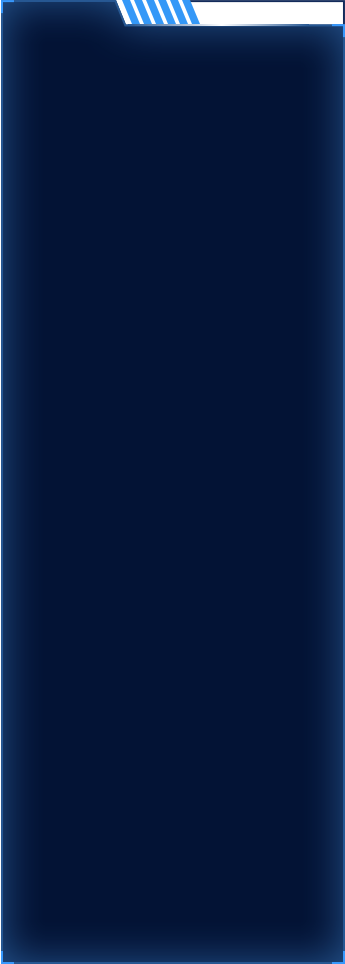
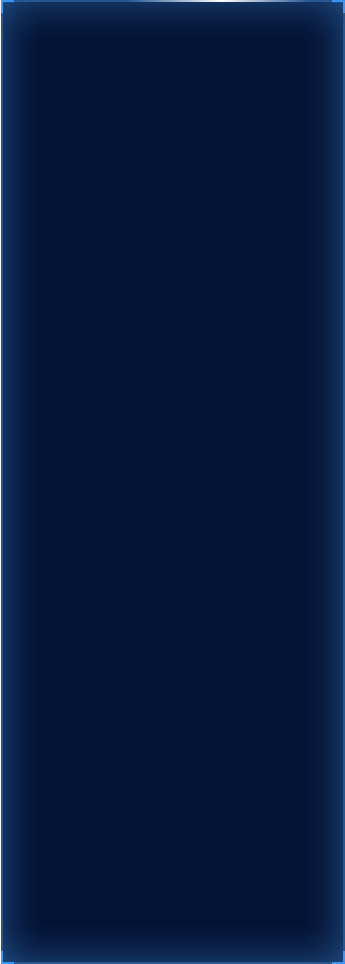
'模糊抓拍'

Changed region(s): [[0.3188, 0.0, 1.0, 0.0622]]

diff --git a/src/components/keyChannel/homeIndex.vue b/src/components/keyChannel/homeIndex.vue
@@ -5,8 +5,19 @@
       <el-container  ref="elAside">
         <el-aside>
           <div class="bg"><img src="../../assets/index/zuo.png" alt="" ></div>
-          <div class="stranger_title"><img src="../../assets/index/zuoxuanzhong.png" alt="">陌生人(未处理)</div>
-          <div class="stranger_list" v-if="strangerList.length != 0">
+          <div class="stranger_title">
+            <div :class="strangerTab == 1 ? 'active stranger_tab' : 'stranger_tab'" @click="strangerTabClick(1)">
+              <img src="../../assets/index/zuoxuanzhong.png" alt="" v-if="strangerTab == 1">
+              <img src="../../assets/index/zuoweixuan.png" alt="" v-else>
+              陌生人(未处理)
+            </div>
+            <div :class="strangerTab == 2 ? 'active stranger_tab' : 'stranger_tab'" @click="strangerTabClick(2)">
+              <img src="../../assets/index/zuoxuanzhong.png" alt="" v-if="strangerTab == 2">
+              <img src="../../assets/index/zuoweixuan.png" alt="" v-else>
+              模糊抓拍
+            </div>
+          </div>
+          <div class="stranger_list" v-if="strangerTab == 1">
             <div class="list" v-for="(item,index) in strangerList" :key="index">
               <div class="img">
                 <img :src="item.facial_pic" alt="" @click="bigImgShow(item.facial_pic)">
@@ -15,13 +26,30 @@
                 <p><span>时间：</span><span>{{datetimeparse(item.filming_time,'MM-DD hh:mm:ss')}}</span></p>
                 <p><span>地点：</span><span>{{item.location ? item.location : '-'}}</span></p>
                 <p><span>来源：</span><span>-</span></p>
-                <div class="handle" @click="handelBtn(item.illegal_guest_id)"><img src="../../assets/index/chuli.png" alt=""></div>
+                <div class="handle" @click="handelBtn(item.illegal_guest_id,1)"><img src="../../assets/index/chuli.png" alt=""></div>
               </div>
             </div>
+            <div class="noMsg" v-if="strangerList.length == 0">
+              <div class="img"><img src="../../assets/index/zanwuneirong.png" alt=""></div>
+              <p>暂无内容</p>
+            </div>
           </div>
-          <div class="noMsg" v-else>
-            <div class="img"><img src="../../assets/index/zanwuneirong.png" alt=""></div>
-            <p>暂无内容</p>
+          <div class="stranger_list" v-if="strangerTab == 2">
+            <div class="list" v-for="(item,index) in indistinctList" :key="index">
+              <div class="img">
+                <img :src="item.facial_pic" alt="" @click="bigImgShow(item.facial_pic)">
+              </div>
+              <div class="list_content">
+                <p><span>时间：</span><span>{{datetimeparse(item.filming_time,'MM-DD hh:mm:ss')}}</span></p>
+                <p><span>地点：</span><span>{{item.location ? item.location : '-'}}</span></p>
+                <p><span>来源：</span><span>-</span></p>
+                <div class="handle" @click="handelBtn(item.illegal_guest_id,2)"><img src="../../assets/index/chuli.png" alt=""></div>
+              </div>
+            </div>
+            <div class="noMsg" v-if="indistinctList.length == 0">
+              <div class="img"><img src="../../assets/index/zanwuneirong.png" alt=""></div>
+              <p>暂无内容</p>
+            </div>
           </div>
         </el-aside>
         <!-- 中间主页-->
@@ -453,6 +481,7 @@
         maskBtn:false,         // 控制大图
         bigImgSrc: '',         // 大图url
         strangerList: [],   // 陌生人待处理的列表
+        indistinctList: [], // 陌生人模糊抓拍列表
         strangerNum: 0,     // 陌生人待处理的数量
         tab1: true,
         tab2: false,
@@ -479,18 +508,13 @@
         aliveLists: [],        // 在住人列表
         visitorLists: [],        // 访客列表
         websock: null,
+        strangerTab: 1,      // 左边tab切换
       }
     },
     mounted () {
       this.getLists(0,'',0,18,'');
-      this.getLists(0,'SUSPICIOUS_GUEST',5,200,'SUSPICIOUS_GUEST');
+      this.getLists(0,'SUSPICIOUS_GUEST',5,500,'SUSPICIOUS_GUEST');
       this.initWebSocket();
-//      console.log(this.$refs.mainHeight.$el.offsetHeight);
-
-//      console.log(this.$refs.elAside.$children[0].$el.lastChild.style.maxHeight);
-//      console.log(this.$refs.elAside.$children[0]);
-//      console.log(this.$refs.elAside.$children[0].$el.firstChild.firstChild.style.height);
-//      console.log(this.$refs.elAside.$children[0]);
     },
     methods: {
 
@@ -559,6 +583,11 @@
         this.totalList();
       },
 
+      // 左边tab切换
+      strangerTabClick(index) {
+        this.strangerTab = index;
+      },
+
       // 分页
       handleSizeChange (val) {
 
@@ -598,6 +627,8 @@
       getLists (page,statuses,type,limit,status) {
         page = page * 18;
         this.doubtfulList = [];
+        this.indistinctList = [];
+        this.strangerNum = [];
         let obj = {
           createTimeStart: new Date(this.datetimeparse(new Date(new Date(new Date().toLocaleDateString()).getTime()),'YYYY-MM-DD hh:mm:ss')).getTime(),
           createTimeEnd: ''
@@ -629,7 +660,14 @@
               this.visitorLists = [...body.data.data];
             }else {
               this.strangerNum = parseInt(body.headers['x-total-count']);
-              this.strangerList = [...body.data.data];
+              body.data.data.forEach(item => {
+                if (item.bluriness && item.bluriness >= 0.6) {
+                  this.indistinctList.push(item);
+                }else {
+                  this.strangerList.push(item);
+                }
+              });
+//              this.strangerList = [...body.data.data];
               this.totalList();
             }
             this.$nextTick(() => {
@@ -679,7 +717,7 @@
       },
 
       // 待处理的处置事件
-      handelBtn(id){
+      handelBtn(id,type){
         this.hasChecked({
           illegalGuestId: id,
           onsuccess:body=>{
@@ -687,8 +725,9 @@
               message: '处置成功',
               type: 'success'
             });
-            this.strangerNum--;
-            this.strangerList.forEach((item,index) => {
+            if (type == 1) {
+              this.strangerNum--;
+              this.strangerList.forEach((item,index) => {
                 if (item.illegal_guest_id == id) {
                   this.$nextTick(() => {
                     this.strangerList.splice(index, 1);
@@ -708,7 +747,31 @@
                   });
                 }
                 this.totalAll();
-            })
+              })
+            }else {
+              this.indistinctList.forEach((item,index) => {
+                if (item.illegal_guest_id == id) {
+                  this.$nextTick(() => {
+                    this.indistinctList.splice(index, 1);
+                    this.total1++;
+                    this.total2++;
+                    if (this.tab1 && this.currentPage1 == 1) {
+                      this.toDayLists.unshift(item);
+                      if (this.toDayLists.length > 18) {
+                        this.toDayLists.splice(18,1);
+                      }
+                    }else if (this.tab2 && this.currentPage2 == 1) {
+                      this.strangerLists.unshift(item);
+                      if (this.strangerLists.length > 18) {
+                        this.strangerLists.splice(18,1);
+                      }
+                    }
+                  });
+                }
+                this.totalAll();
+              })
+            }
+
           }
         })
       },
@@ -739,7 +802,11 @@
           this.$nextTick(() => {
             if (newData.guestType == 'SUSPICIOUS_GUEST') {
               this.strangerNum++;
-              this.strangerList.unshift(newData);
+              if (newData.bluriness && newData.bluriness >= 0.6) {
+                this.indistinctList.unshift(newData);
+              }else {
+                this.strangerList.unshift(newData);
+              }
             }else {
               this.total1++;
               this.toDayLists.unshift(newData);
@@ -815,20 +882,28 @@
       }
       .stranger_title {
         font-size: 14px;
-        color: #fff;
         text-align: left;
         line-height: 24px;
-        position: relative;
-        /*display: inline-block;*/
-        /*width: 120px;*/
-        img {
-          display: none;
-          position: absolute;
-          width: 100%;
-          height: 100%;
-          z-index: -1;
-          left: 0;
-          top: 0;
+        display: inline-block;
+        .stranger_tab {
+          display: inline-block;
+          width: 120px;
+          position: relative;
+          text-align: center;
+          margin-right: 20px;
+          cursor: pointer;
+          color: #3596FC;
+          img {
+            position: absolute;
+            width: 100%;
+            height: 100%;
+            z-index: -1;
+            left: 0;
+            top: 0;
+          }
+        }
+        .active {
+          color: #fff;
         }
       }
       .stranger_list {
